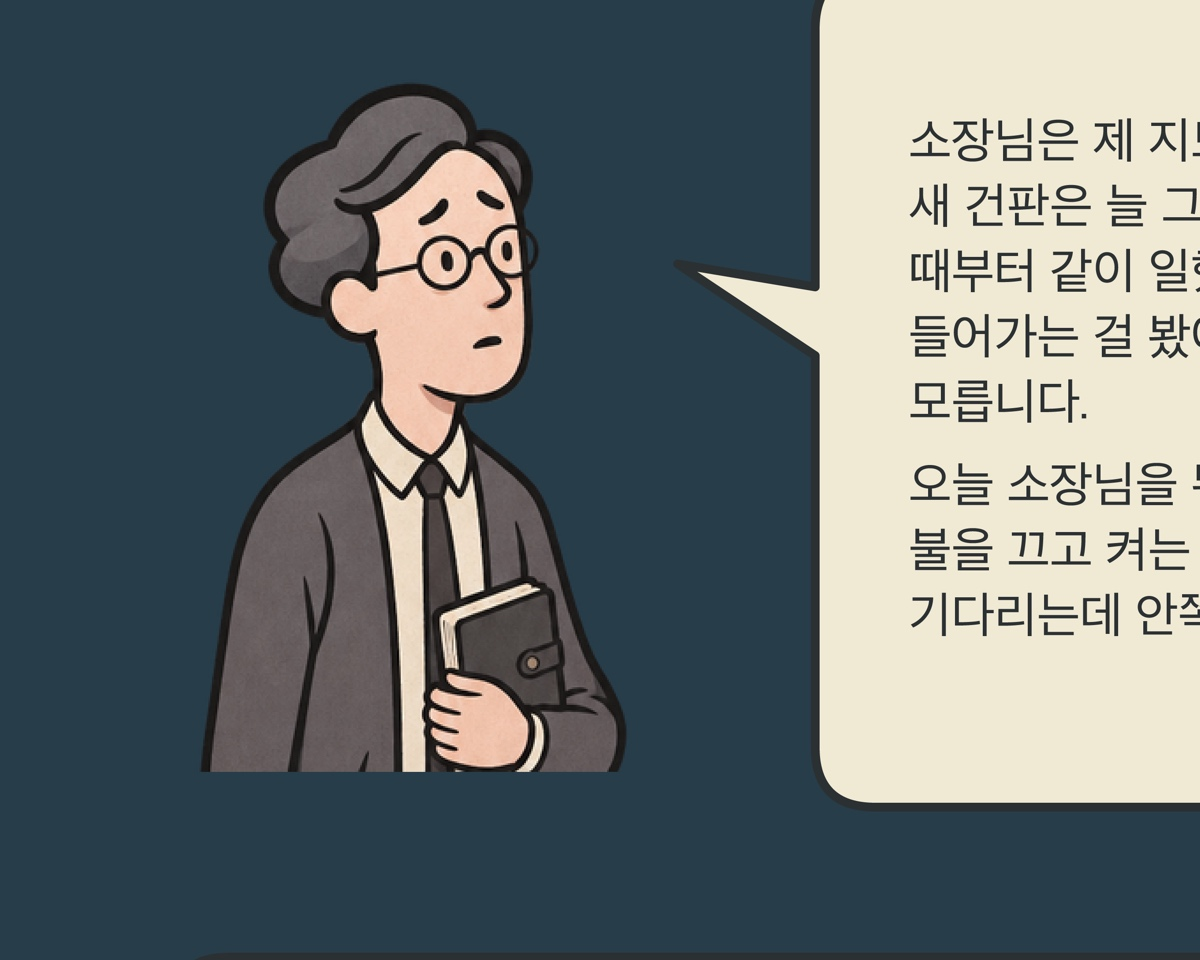
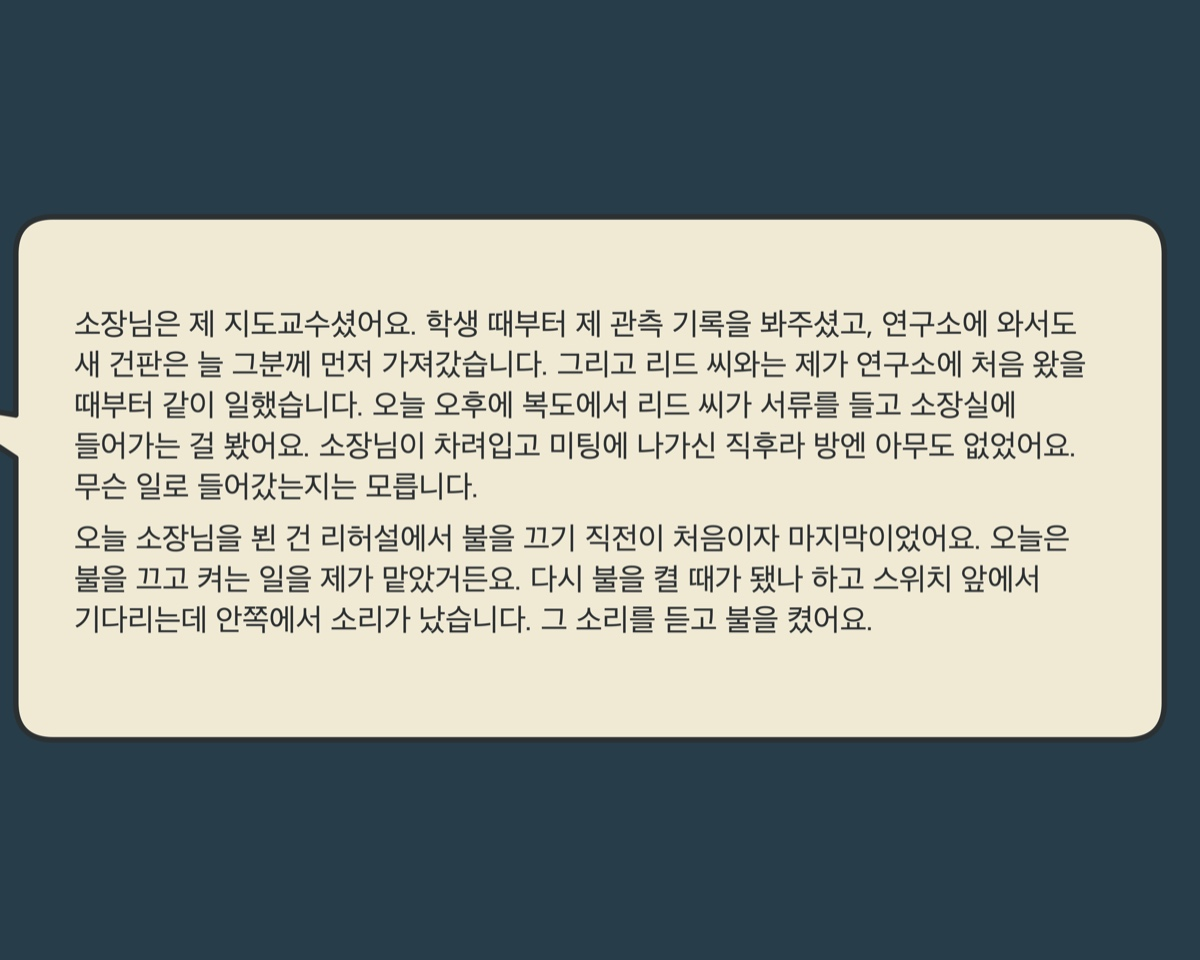
Show the contradiction in Bennett’s testimony

diff --git a/traces-of-guilt/case-data.js b/traces-of-guilt/case-data.js
@@ -1,7 +1,7 @@
 const illustrations = {
   scene: "planetarium/main.png?v=rehearsal-slide-handoff",
   testimonyA: "planetarium/witnesses-01.png?v=witness-proof",
-  testimonyB: "planetarium/witnesses-02.png?v=character-faces",
+  testimonyB: "planetarium/witnesses-02.png?v=bennett-meeting",
   schedule: "planetarium/schedule.png?v=book-overview",
   console: "planetarium/console.png?v=clue-art-refresh",
   photo: "planetarium/photo.png?v=clue-art-refresh",
@@ -214,16 +214,16 @@ export const caseFile = {
         text: "공문에는 에드워드가 직접 주도한 연구 실적을 입증해야 연임할 수 있다고 적혀 있어요. 발견자 이름을 자기 이름으로 바꾸라는 편지를 함께 보면, 소장이 베넷의 발견을 자기 실적으로 발표하려 한 이유가 드러나요."
       },
       {
-        image: "planetarium/solution/15-bennett-testimony.jpg",
-        alt: "암전 직전 소장을 봤고 충돌 때 스위치 앞이었다고 말한 베넷의 증언",
-        title: "베넷은 어디에 있었을까요?",
-        text: "베넷은 벽의 조명 스위치 앞에서 기다리다 충돌음을 들었다고 했어요. 리드는 불이 꺼진 뒤 첫 사진이 떴을 때 베넷이 조작대 앞 자기 곁에서 발견 이야기를 했다고 해요. 현장 그림에서 스위치와 조작대는 서로 떨어져 있어요. 베넷의 말에는 암전 중 조작대에 있었던 시간이 빠져 있어요."
+        image: "planetarium/solution/15-bennett-testimony.jpg?v=bennett-meeting",
+        alt: "소장이 오후에 차려입고 미팅에 나갔다는 말과 리허설 직전에 처음 봤다는 베넷의 증언",
+        title: "베넷은 소장을 언제 처음 봤을까요?",
+        text: "베넷은 리드가 소장실에 들어간 때가 소장이 차려입고 미팅에 나선 직후였다고 했어요. 오후의 차림과 나간 시점까지 묘사한 건, 베넷이 이미 그때 소장을 봤다는 단서예요. 바로 뒤에 ‘리허설에서 불을 끄기 직전이 처음’이라고 한 말과 맞지 않아요."
       },
       {
         image: "planetarium/solution/16-schedule-and-testimony.jpg",
         alt: "암전 담당 리드와 리허설 A 담당 베넷이 적힌 진행표, 당일 조명을 맡았다는 베넷의 증언",
         title: "슬라이드, 조명, 조작대가 한 사람에게 이어져요",
-        text: "첫 관측 사진의 담당자는 베넷이에요. 암전 담당은 진행표에 리드로 적혀 있지만, 베넷은 당일 조명을 자신이 맡았다고 했어요. 리드가 잘못된 첫 화면 때문에 자리를 뜰 때 베넷은 조작대 곁에 있었어요. 슬라이드를 준비하고, 불을 끄고, 비게 될 조작대까지 쓸 기회가 한 사람에게 모여요."
+        text: "진행표에서 첫 사진은 베넷, 암전은 리드 담당이에요. 베넷은 당일 조명을 맡았고 스위치 앞에서 충돌음을 들었다고 했어요. 리드의 증언에는 암전 뒤 첫 사진이 떴을 때 베넷이 조작대 곁에 있었던 순간이 나와요. 리드가 잘못된 첫 화면 때문에 자리를 뜨자, 첫 슬라이드와 조명에 관여한 베넷에게 조작대를 쓸 기회도 생겼어요."
       },
       {
         image: "planetarium/solution/lever-crack.png",

diff --git a/traces-of-guilt/index.html b/traces-of-guilt/index.html
@@ -9,7 +9,7 @@
   <title>Traces of Guilt</title>
   <link rel="canonical" href="https://iontail.github.io/traces-of-guilt/">
   <link rel="stylesheet" href="style.css?v=book-overview">
-  <script src="game.js?v=reid-motive" type="module"></script>
+  <script src="game.js?v=bennett-meeting" type="module"></script>
 </head>
 <body>
   <svg class="icon-definitions" aria-hidden="true" xmlns="http://www.w3.org/2000/svg">

diff --git a/traces-of-guilt/game.js b/traces-of-guilt/game.js
@@ -1,4 +1,4 @@
-import { caseFile } from "./case-data.js?v=reid-motive";
+import { caseFile } from "./case-data.js?v=bennett-meeting";
 
 const entrance = document.querySelector(".entrance");
 const enterButton = entrance.querySelector(".enter-room");
